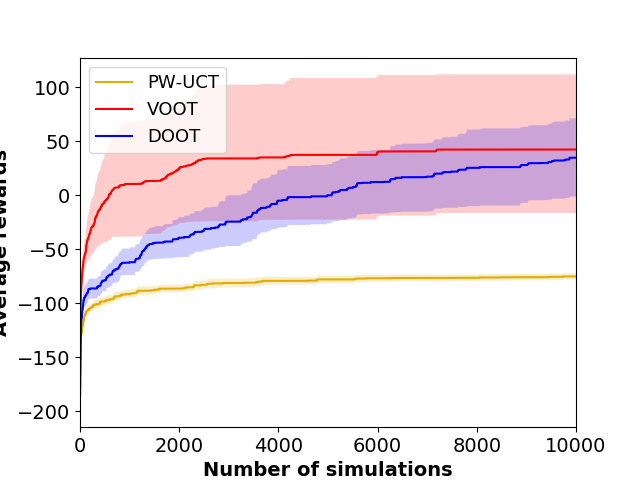
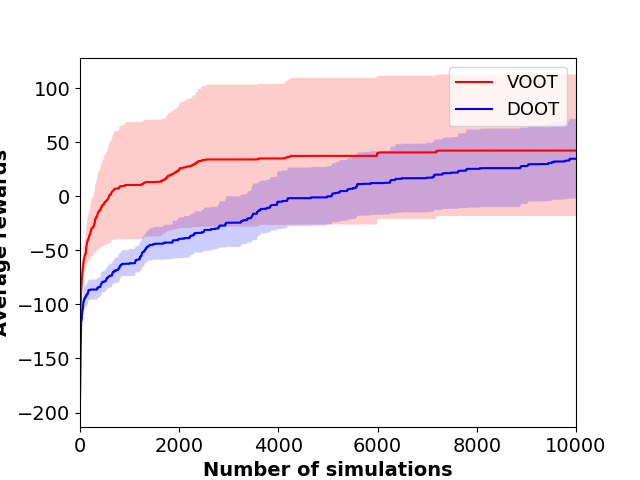
removing fixed epsilons for randomized doo in convbelt and mdr

diff --git a/test_scripts/test_mcts.py b/test_scripts/test_mcts.py
@@ -151,7 +151,8 @@ def main():
             if args.sampling_strategy == 'voo':
                 args.voo_sampling_mode = 'uniform'
             elif args.sampling_strategy == 'randomized_doo':
-                args.epsilon = 1.0
+                pass
+                #args.epsilon = 1.0
         if args.pw:
             args.add = 'pw_reevaluates_infeasible'
         else:
@@ -174,9 +175,11 @@ def main():
             if args.sampling_strategy == 'voo':
                 args.voo_sampling_mode = 'uniform'
             elif args.sampling_strategy == 'randomized_doo':
-                args.epsilon = 1.0
+                pass
+                #args.epsilon = 1.0
             elif args.sampling_strategy == 'doo':
-                args.epsilon = 1.0
+                pass
+                #args.epsilon = 1.0
         if args.pw:
             args.add = 'pw_reevaluates_infeasible'
         else:
